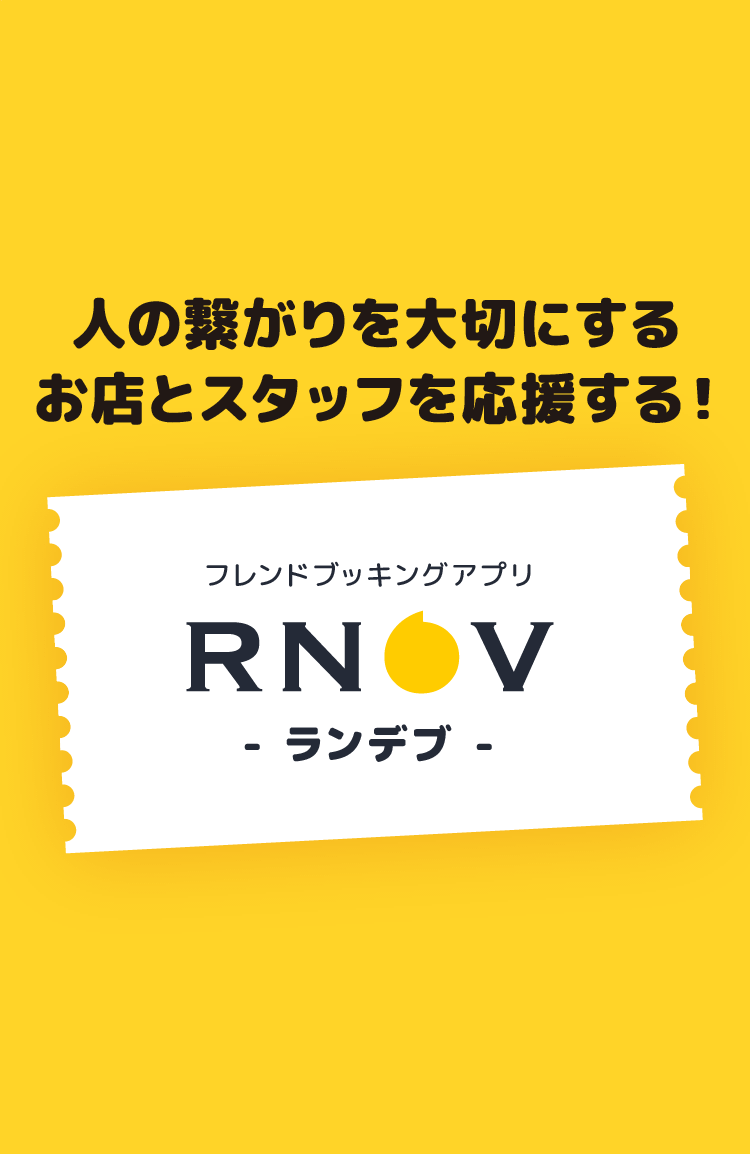
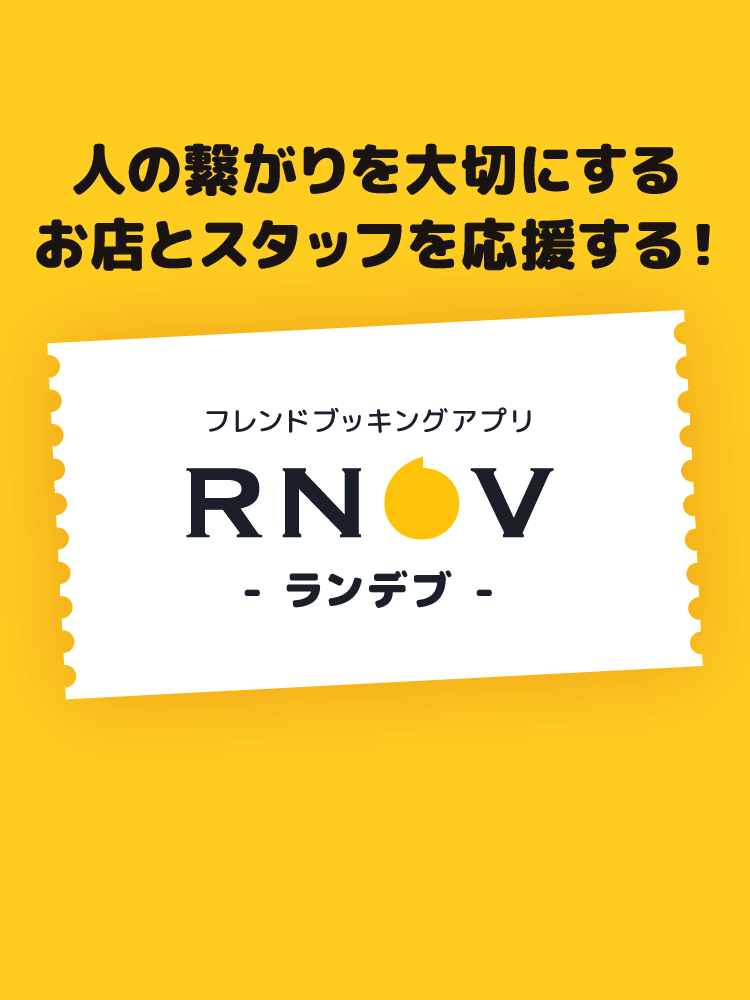
fix FirstView slide

Changed region(s): [[0.0307, 0.124, 0.9507, 0.744]]

diff --git a/src/components/Footer.vue b/src/components/Footer.vue
@@ -35,18 +35,16 @@
         <div class="footer-contents-parts"><router-link to="/frequentlyaskedquestions" class="footer-anker">よくあるご質問</router-link></div>
       </div>
       <div class="footer-contents">
-        <div class="footer-contents-parts"><a href="https://rendezvous.studio.design/" class="footer-anker">サービスへの想い</a></div>
+        <!-- <div class="footer-contents-parts"><a href="https://rendezvous.studio.design/" class="footer-anker">サービスへの想い</a></div> -->
         <!-- <div class="footer-contents-parts">
           <img src="@/assets/img/Facebook.png" width="50px" style="margin-right:10px;" alt="">
           <img src="@/assets/img/Twitter.png" width="50px" alt="">
         </div> -->
-      </div>
-
       <div class="button-area">
-       <button class="btn-flat-border" v-on:click="sendMail">お問い合わせ</button>
+       <button class="footer-contents-parts btn-flat-border" v-on:click="sendMail">お問い合わせ</button>
       </div>
-
-            <div class="footer-contents">
+      </div>
+      <div class="footer-contents">
         <div class="footer-contents-parts">
           <img src="@/assets/img/docomo.png" width="200px" style="margin-right:10px;" alt="">
         </div>

diff --git a/src/components/FirstView.vue b/src/components/FirstView.vue
@@ -15,8 +15,8 @@
     <div class="btns_bar fv_info">
       <p class="btns_bar_txt">今すぐ使ってみる</p>
       <div class="btns_bar_body">
-        <a class="common_btn btn_2" href="#" target="_blank"><img src="@/assets/img/btn_app.png" width="148" height="40" alt="Download on the App Sttore"></a>
-        <a class="common_btn btn_3" href="https://twitter.com/rndv_ceo" target="_blank">iPhone以外の<br>デバイスで利用</a>
+        <a class="common_btn btn_2" href="https://apps.apple.com/jp/app/id1485140161" target="_blank"><img src="@/assets/img/btn_app.png" width="148" height="40" alt="Download on the App Sttore"></a>
+        <a class="common_btn btn_3" href="https://twitter.com/rndv_ceo" target="_blank">twitterの<br>DMへ</a>
       </div>
     </div>
   </div>
@@ -49,7 +49,7 @@ export default {
     return {
       swiperOption: {
         autoplay: {
-          delay: 2500,
+          delay: 7500,
           disableOnInteraction: false
         },
         spaceBetween: 30,

diff --git a/src/components/SubscribeSection.vue b/src/components/SubscribeSection.vue
@@ -10,7 +10,7 @@
             <div class="form-group">
             <div class="btns_bar_body">
               <a class="common_btn btn_2" href="https://apps.apple.com/jp/app/id1485140161" target="_blank"><img src="@/assets/img/btn_app.png" width="148" height="40" alt="Download on the App Sttore"></a>
-              <a class="common_btn btn_3" href="https://twitter.com/rndv_ceo" target="_blank">iPhone以外の<br>デバイスで利用</a>
+              <a class="common_btn btn_3" href="https://twitter.com/rndv_ceo" target="_blank">twitterの<br>DMへ</a>
             </div>
               <!-- <div class="cp_iptxt">
                 <p>メールアドレス<span style="color: red;">[必須]</span></p>
